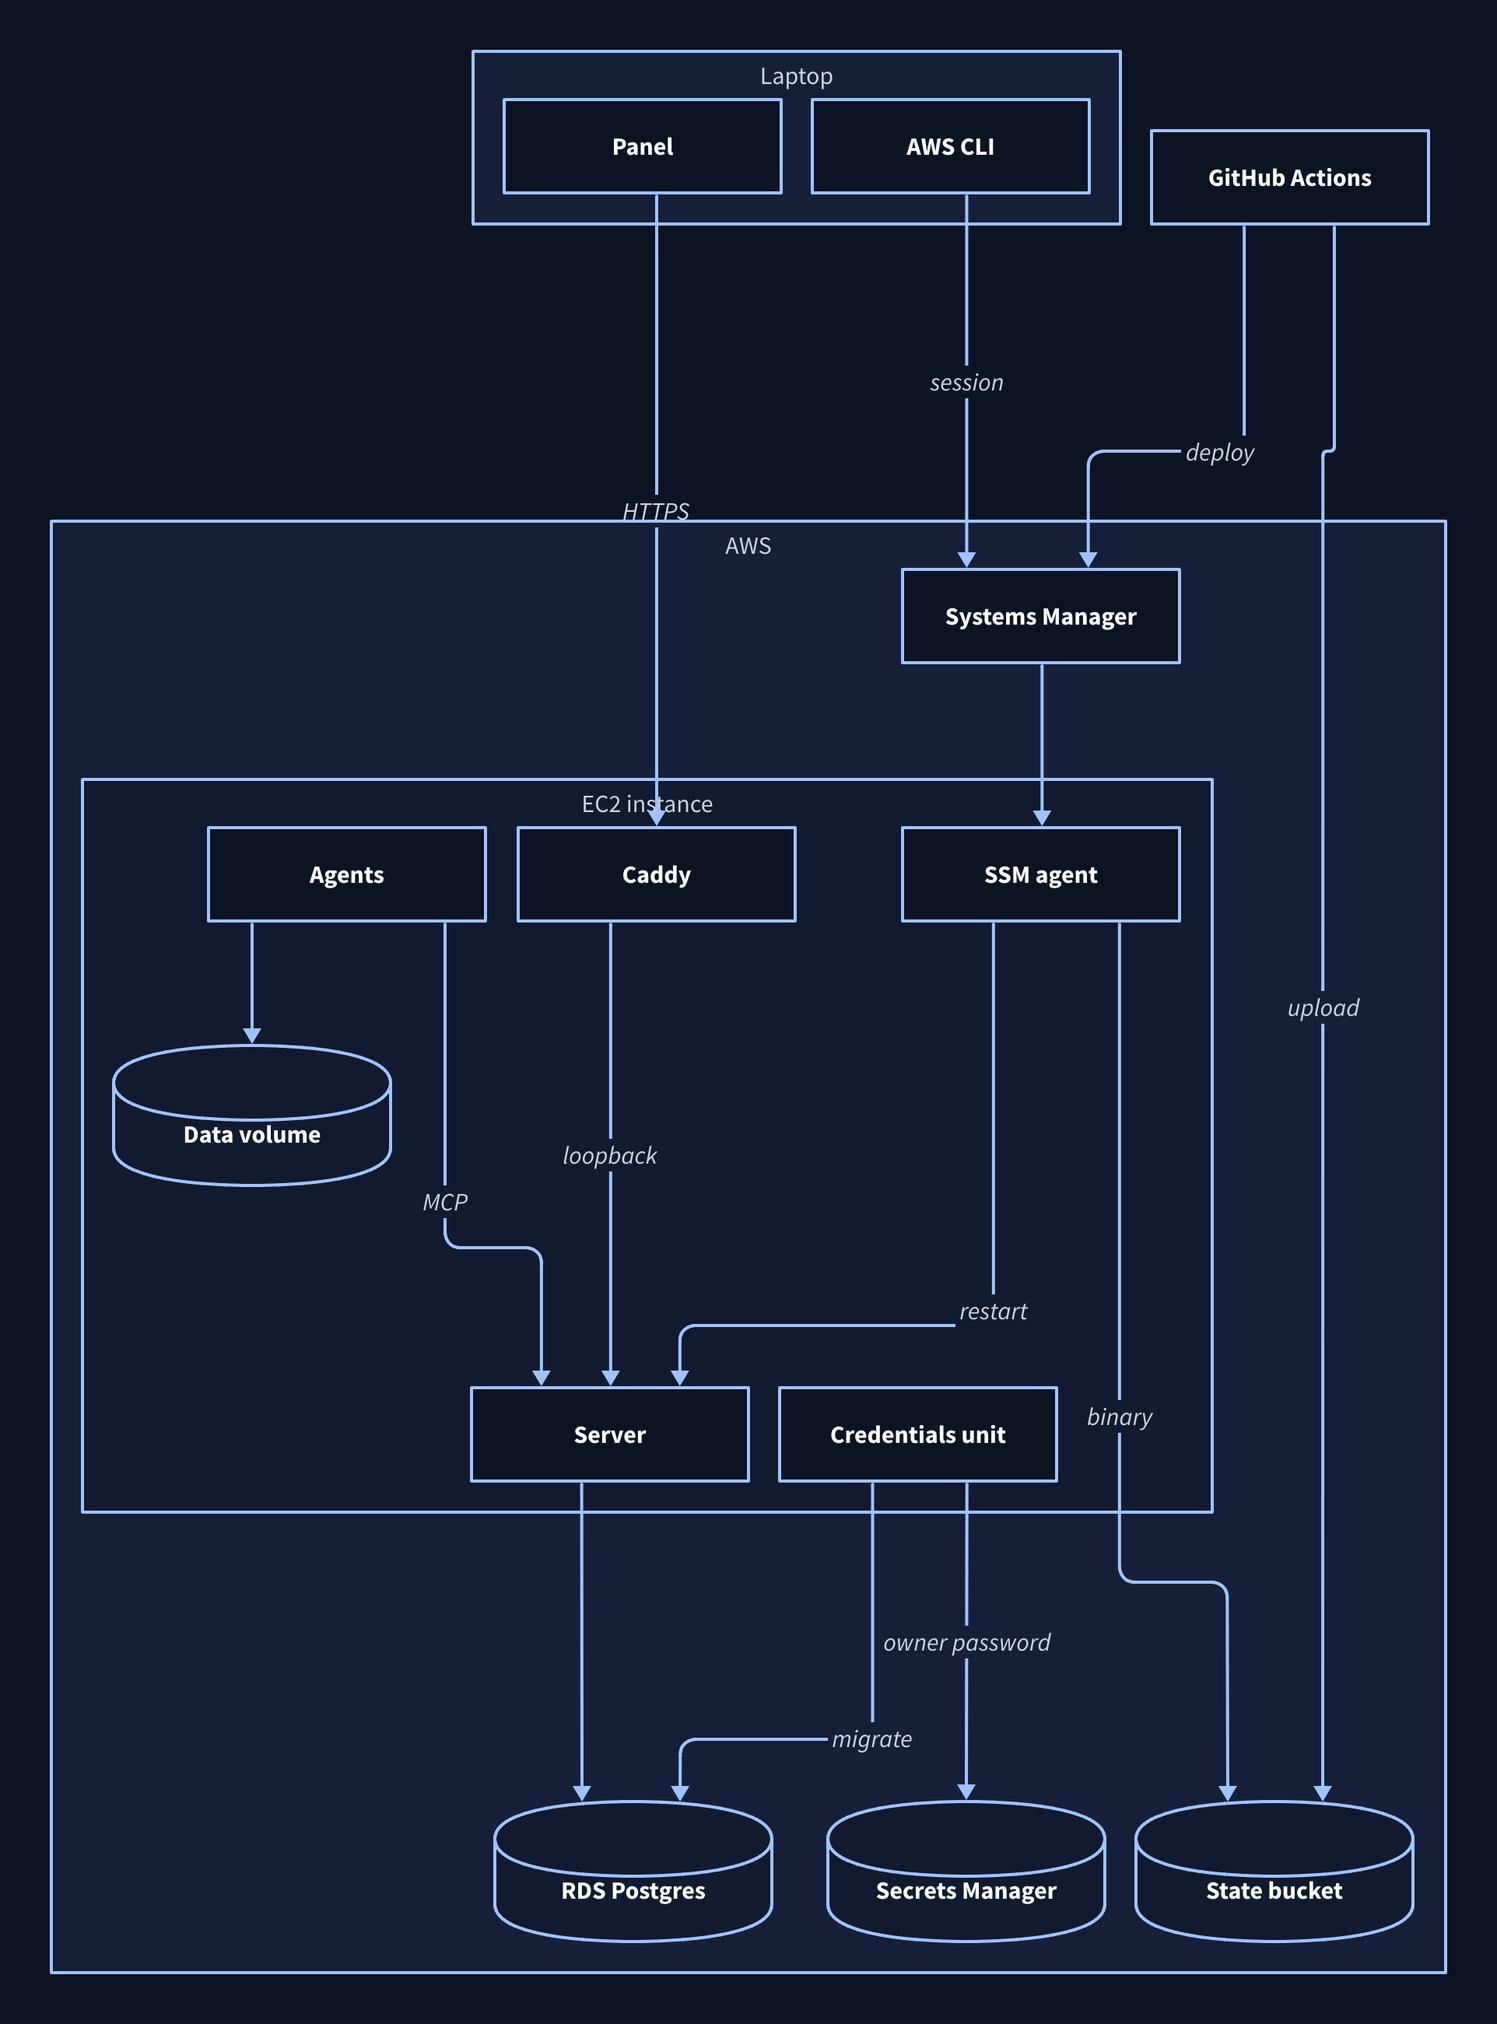
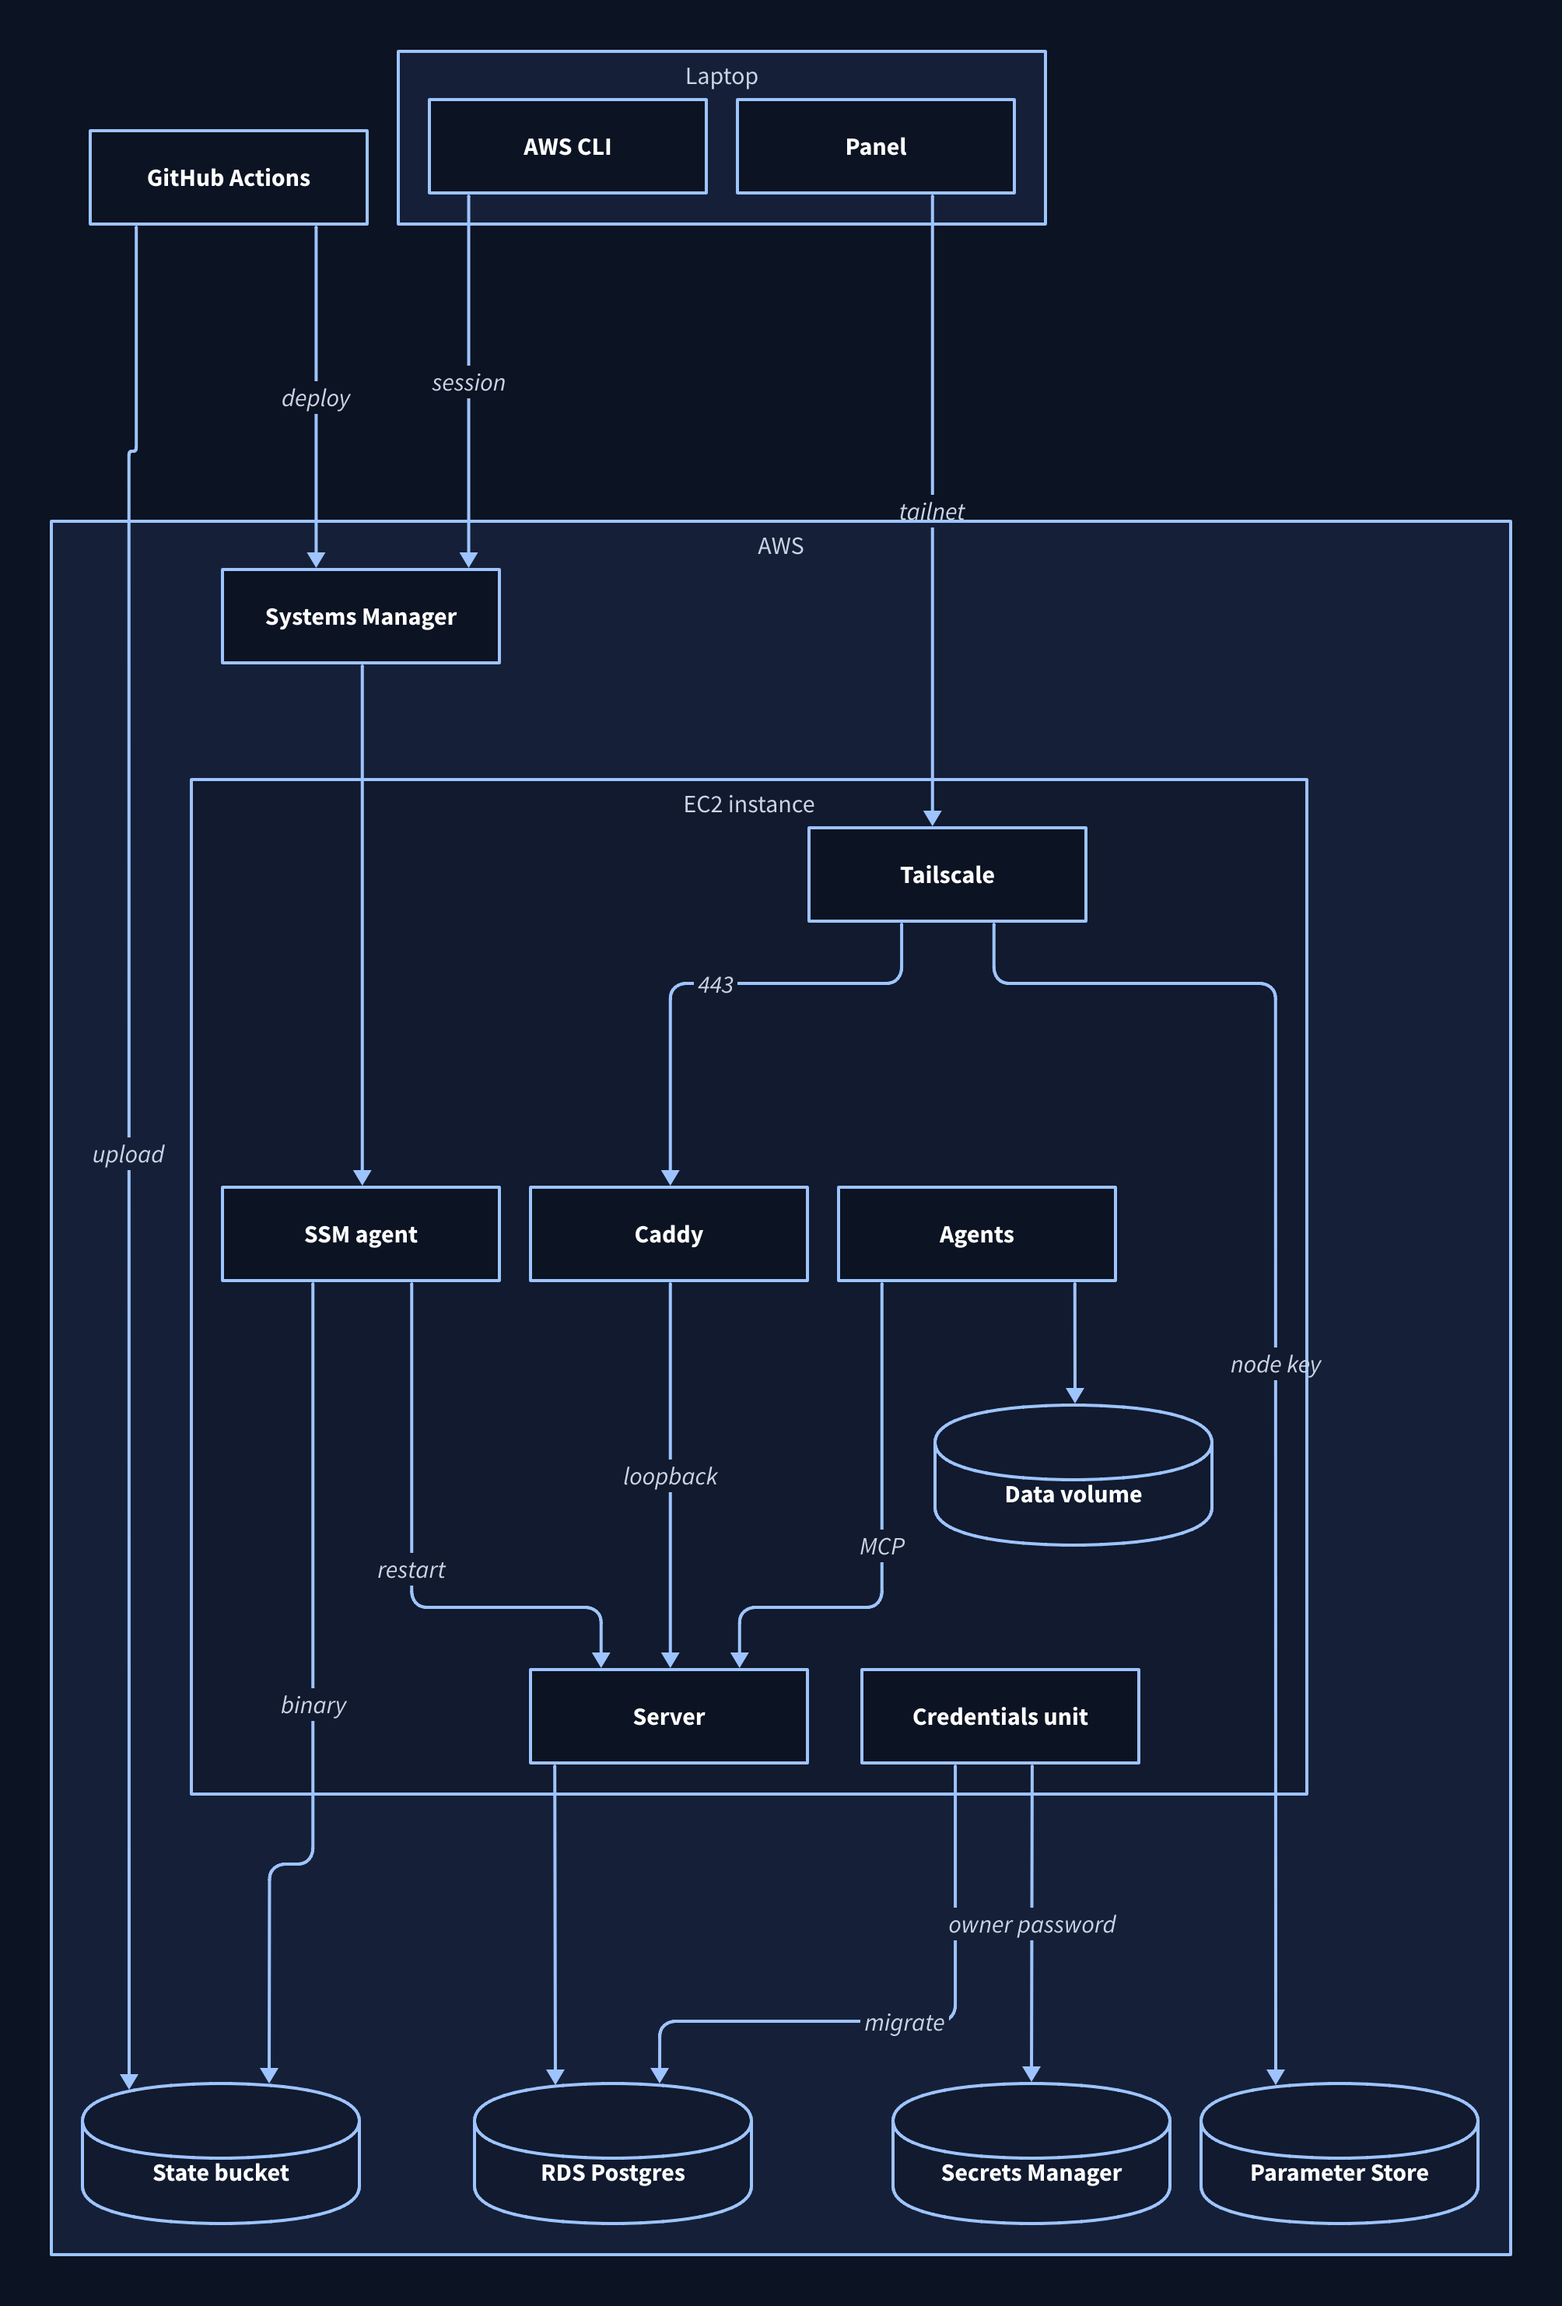
docs: describe the engine behind tailscale

diff --git a/infra/engine/README.md b/infra/engine/README.md
@@ -4,9 +4,9 @@ This stack is the remote engine komrad's own development runs on: one EC2 instan
 
 Copy `terraform.tfvars.example` and `backend.hcl.example`, drop the `.example`, and fill them in. Then run `mise run infra:engine:init` and `mise run infra:engine:apply`.
 
-Set `domain_name` to the engine's domain, and add an A record for it at your DNS host, pointing at the `instance_public_ip` output. Terraform leaves the record to you, so the engine doesn't depend on any one DNS provider.
+The engine lives on a Tailscale tailnet and opens no ports to the internet. Set `tailscale_hostname` to the engine's name on the tailnet and `tailscale_tailnet` to the tailnet's DNS name. Before the first apply, store a single-use, pre-approved auth key tagged `tag:komrad-engine` in Secrets Manager as `komrad/tailscale-auth-key`. The machine joins with it on first boot and keeps its tailnet identity in Parameter Store after that. The `engine_url` output is the address to put in your engine file.
 
-Set `sign_in_issuer`, `sign_in_client_id` and, on Google, `sign_in_client_secret` from the app you registered at your identity provider. People reach the engine on 443, which `https_allowed_cidrs` can limit to your own address ranges.
+Set `sign_in_issuer`, `sign_in_client_id` and, on Google, `sign_in_client_secret` from the app you registered at your identity provider.
 
 GitHub Actions assumes the `<name>-ci` role with a token GitHub signs for each run. The role trusts only this repository's branches and its `v` tags. It can read the state, send the instance a command through Systems Manager, start and stop it, and build an image. It can't log in.
 
